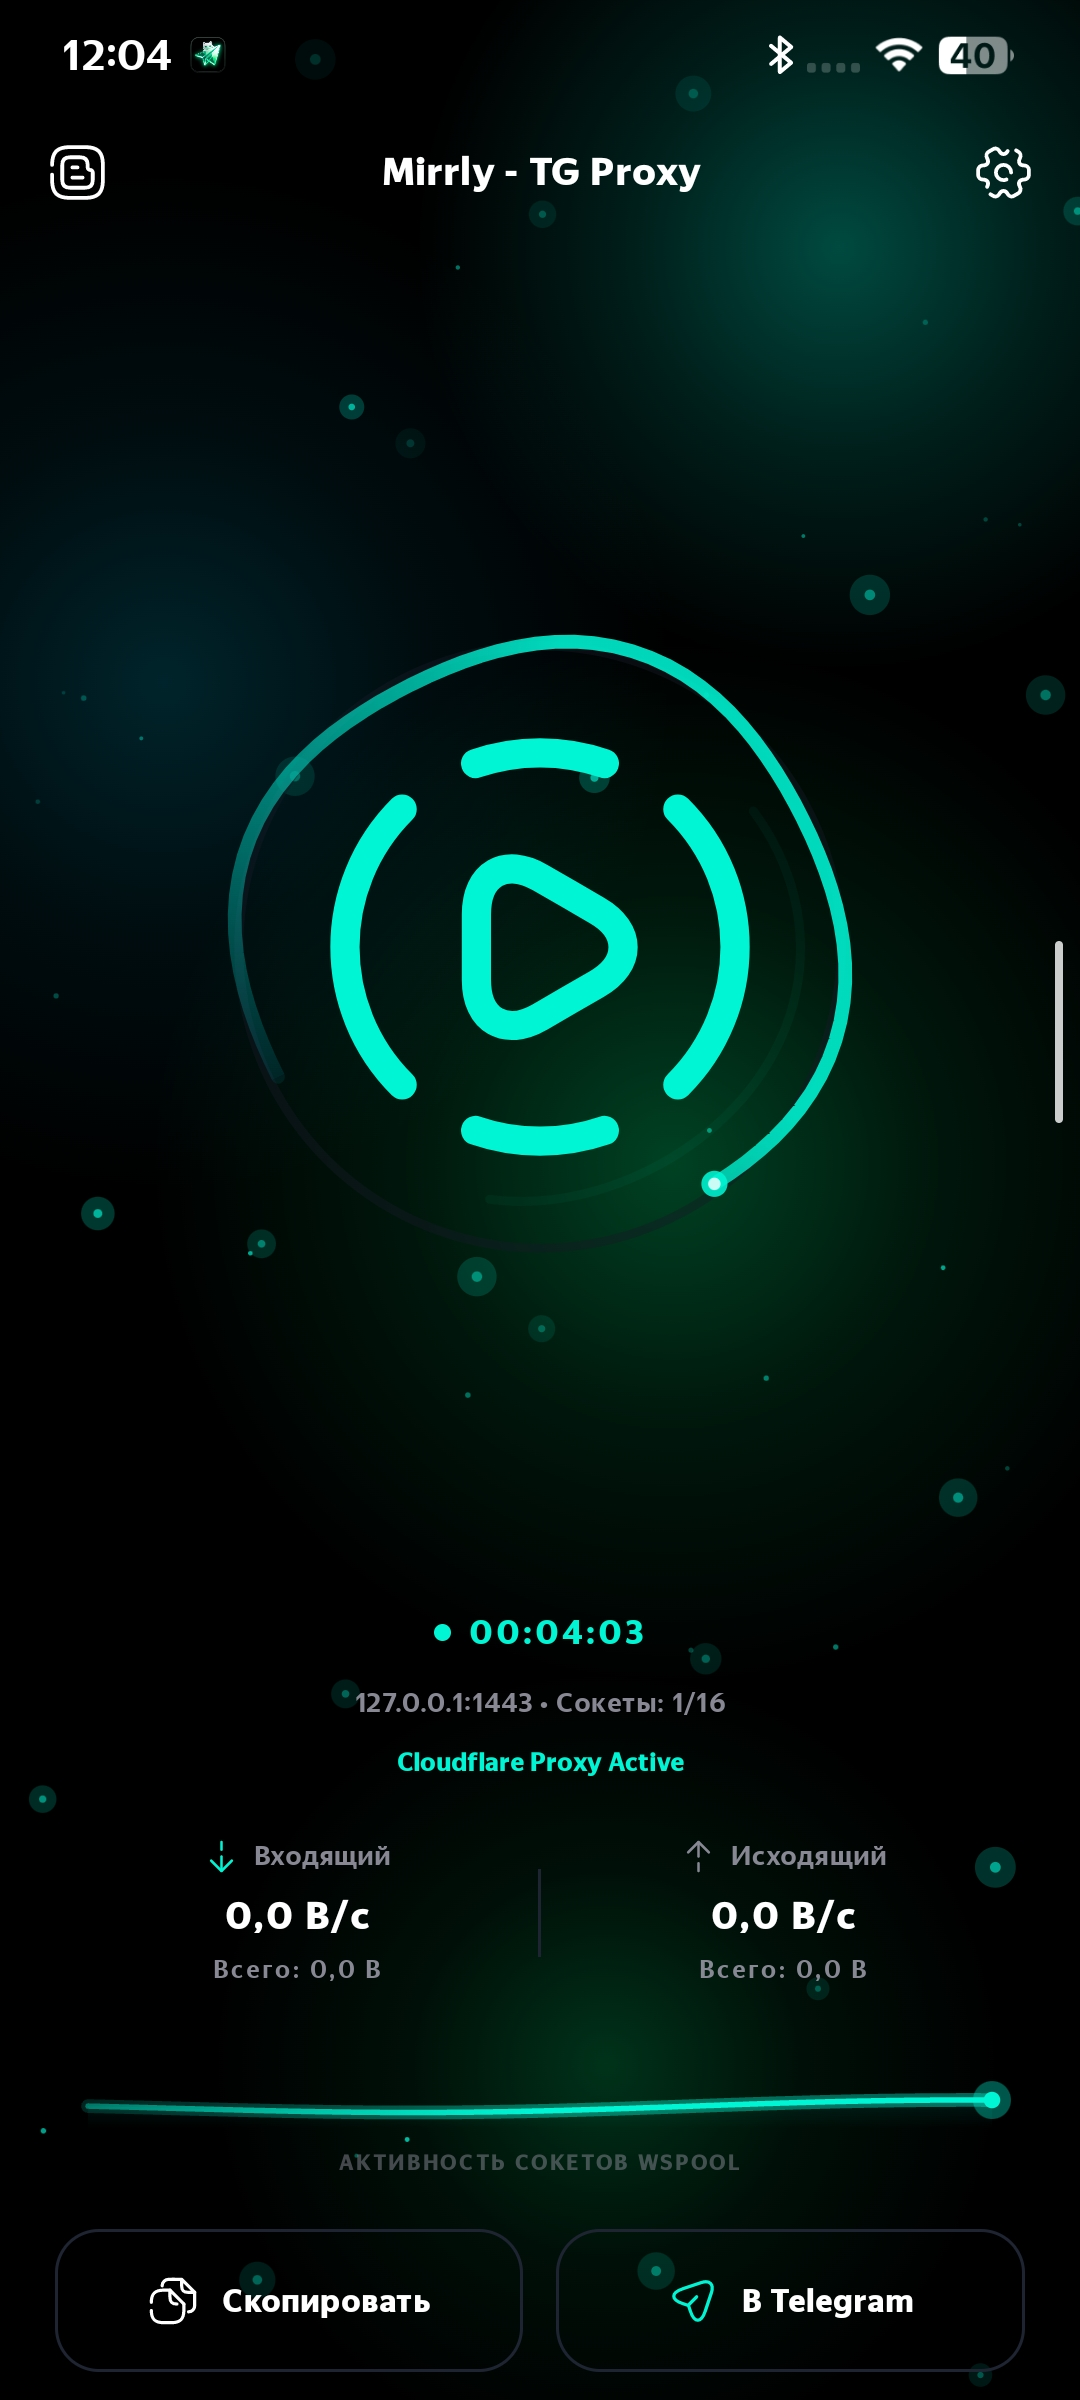
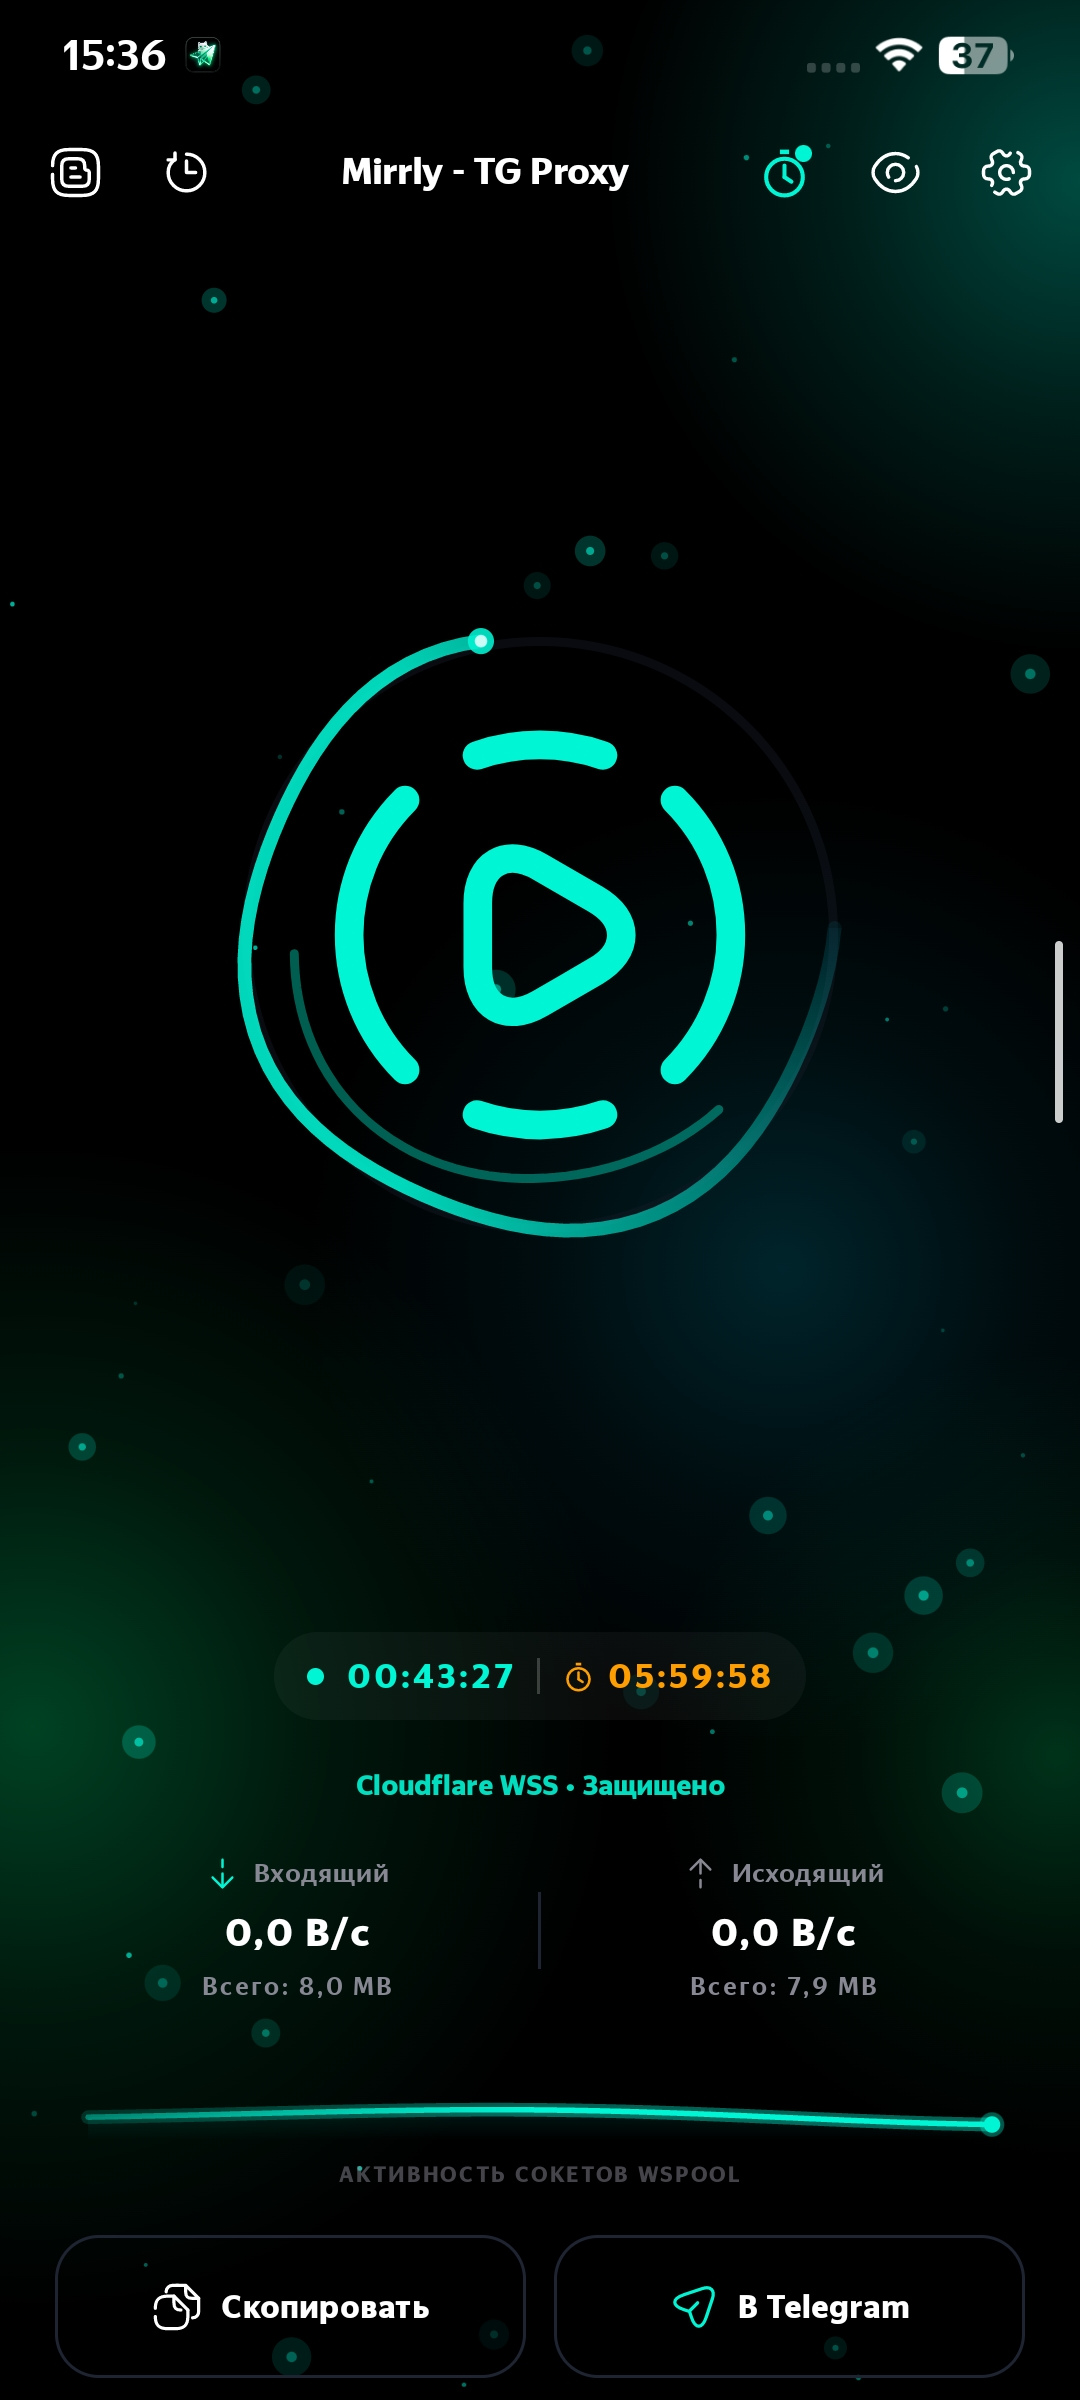
docs: update gallery with new screenshots for sleep timer, session history and settings

diff --git a/README.md b/README.md
@@ -101,9 +101,15 @@ flowchart TD
 
 <div align="center">
 
-| Главный экран | Настройки | Журнал событий |
+| Главный экран | Таймер сна | История сессий |
 | :-: | :-: | :-: |
-| <img src="docs/assets/home.jpg" alt="Главный экран" width="240" /> | <img src="docs/assets/settings.jpg" alt="Экран настроек" width="240" /> | <img src="docs/assets/logs.jpg" alt="Экран логов" width="240" /> |
+| <img src="docs/assets/home.jpg" alt="Главный экран" width="240" /> | <img src="docs/assets/timer_sleep.jpg" alt="Таймер сна" width="240" /> | <img src="docs/assets/history.jpg" alt="История сессий" width="240" /> |
+
+<br />
+
+| Настройки (Параметры) | Настройки (Диагностика) | Журнал событий |
+| :-: | :-: | :-: |
+| <img src="docs/assets/settings_1.jpg" alt="Настройки - Параметры" width="240" /> | <img src="docs/assets/settings_2.jpg" alt="Настройки - Диагностика" width="240" /> | <img src="docs/assets/logs.jpg" alt="Экран логов" width="240" /> |
 
 <br />
 
